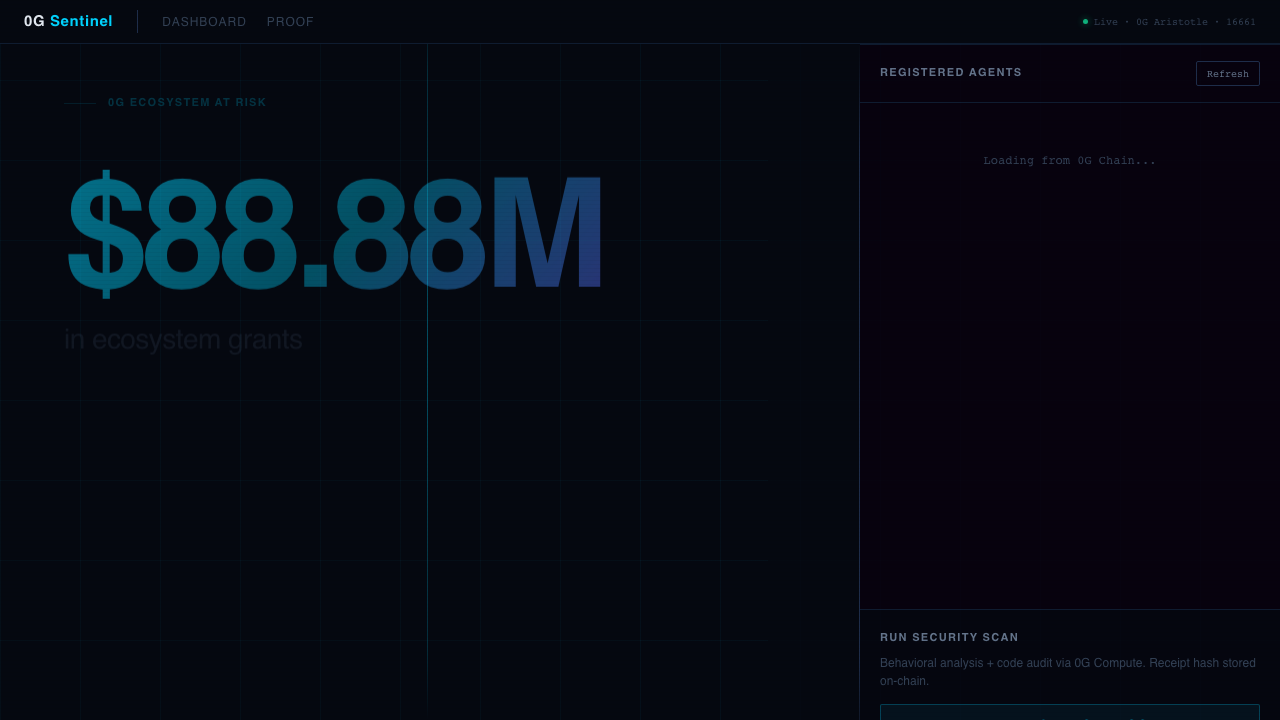
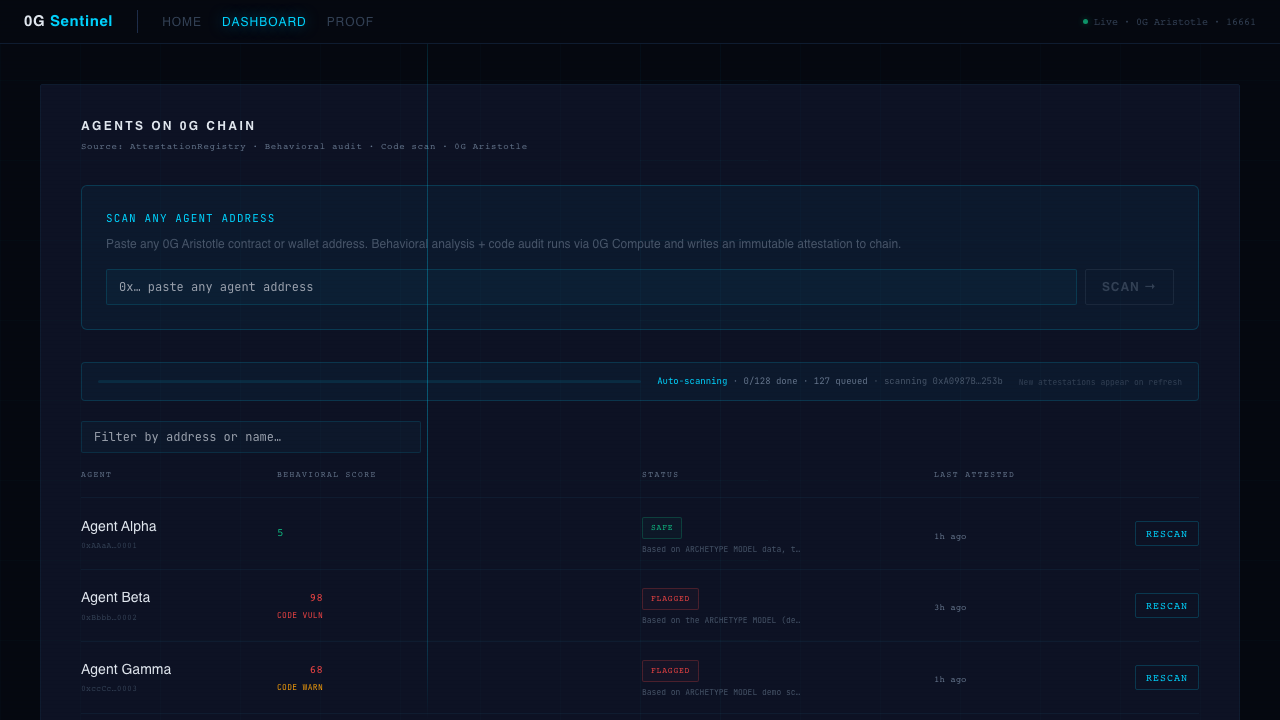
docs: update README and screenshots for chain discovery features
- Add Live Demo URL and live app link
- Document chain-native discovery, auto-scan queue, and agent database
- Add chain discovery, agent detail, and proof page screenshots
- Update API reference with /api/discover and /api/scan/queue
- Update project structure with new frontend components
- Remove stale registration/seeding steps from local setup

diff --git a/README.md b/README.md
@@ -1,6 +1,6 @@
 # 0G Sentinel: On-chain security attestations for AI agents
 
-Security infrastructure for the AI agent era. 0G Sentinel scans every registered agent using two independent AI inference pipelines, then writes an immutable 9-field attestation to 0G Chain. Any dApp, orchestrator, or smart contract can query attestations in a single on-chain call and gate execution on the result.
+Security infrastructure for the AI agent era. 0G Sentinel discovers every active contract on 0G Aristotle via chain logs, scans them through two independent AI inference pipelines, and writes immutable 9-field attestations to 0G Chain. Any dApp, orchestrator, or smart contract can query attestations in a single call and gate execution on the result — no agent registration required.
 
 [![TypeScript](https://img.shields.io/badge/TypeScript-5.x-3178C6?logo=typescript&logoColor=white)](https://www.typescriptlang.org/)
 [![Solidity](https://img.shields.io/badge/Solidity-0.8-363636?logo=solidity)](https://soliditylang.org/)
@@ -11,13 +11,21 @@ Security infrastructure for the AI agent era. 0G Sentinel scans every registered
 
 ![Dashboard](docs/images/dashboard.png)
 
+## Live Demo
+
+**[https://0g-sentinel.vercel.app](https://0g-sentinel.vercel.app)**
+
+Browse the live agent database, scan any 0G Aristotle address, and inspect on-chain attestation proofs.
+
 ---
 
 ## What Is 0G Sentinel?
 
 AI agents operate on-chain with real funds. There is currently no standard way to verify whether an agent is safe before granting it access to a protocol. 0G Sentinel fills that gap.
 
-It runs two parallel AI audits: a behavioral risk scan (transaction history, fund flows, access patterns) and a Solidity source code vulnerability scan. Both use 0G Compute's inference network, each producing a unique cryptographic receipt hash. The results are written as a single 9-field attestation struct to `AttestationRegistry` on 0G Chain — immutable, queryable by any contract.
+It discovers active contracts directly from chain logs (no manual registration), runs two parallel AI audits — behavioral risk (tx history, fund flows, access patterns) and Solidity vulnerability scan — and writes a 9-field attestation struct to `AttestationRegistry` on 0G Chain. Both AI calls go through 0G Compute's inference network, each returning a unique cryptographic receipt hash stored on-chain as proof of independent verification.
+
+A background queue auto-scans every newly discovered contract. Results appear progressively as each attestation lands on-chain. Any protocol can gate agent execution on the result with a single `isSafe()` call.
 
 AgentMesh audits developer code. 0G Sentinel audits live agents on mainnet and writes ERC-7857 on-chain identity attestations.
 
@@ -39,18 +47,25 @@ See [`submission/proof.md`](submission/proof.md) for live attestation data and o
 
 ## Screenshots
 
-| Agent Dashboard | Integration Proof |
-|----------------|------------------|
-| ![Dashboard](docs/images/dashboard.png) | ![Proof](docs/images/proof.png) |
+| Agent Database | Chain Discovery |
+|----------------|-----------------|
+| ![Dashboard](docs/images/dashboard.png) | ![Chain Discovery](docs/images/chain-discovery.png) |
+
+| Agent Detail | Integration Proof |
+|--------------|------------------|
+| ![Agent Detail](docs/images/agent-detail.png) | ![Proof](docs/images/proof.png) |
 
 ---
 
 ## Features
 
+- **Chain-native discovery**: Scans the last 10,000 blocks via `eth_getLogs` to find every active contract — no pre-registration, no allowlist, the chain is the registry
+- **Background auto-scan queue**: All discovered contracts are queued for scanning automatically; results appear progressively as each attestation lands on-chain
 - **Dual AI pipelines**: Two independent 0G Compute inference calls per scan, each with a unique `zg-res-key` receipt UUID stored on-chain as proof of independent verification
 - **Behavioral risk scoring**: 0-100 risk score from tx frequency, fund outflow patterns, and contract interaction breadth
 - **Smart contract vulnerability scan**: Reentrancy, broken access control, and unchecked-call detection via AI code analysis
 - **Immutable on-chain attestations**: 9-field struct written to `AttestationRegistry` — queryable by any dApp with a single call; includes full LLM reasoning string
+- **Live agent database**: Paginated, searchable table of all attested agents with inline AI reasoning and threat badges
 - **AgentGate composability**: Drop-in security gate for any protocol; `isSafe()` and `isSafeWithAge()` read `AttestationRegistry` directly, no intermediary
 - **Evidence archival**: Full scan evidence JSON content-addressed and hashed; `evidence_hash` stored immutably in attestation struct
 - **OpenClaw skill**: `openclaw-skill/0g-sentinel-scan.json` enables AI orchestrators to trigger scans as a native tool call
@@ -111,11 +126,12 @@ See [`submission/proof.md`](submission/proof.md) for live attestation data and o
                   attestation verdict
 ```
 
-1. **Register**: Add an agent address to `AgentRegistry`
-2. **Scan**: Sentinel runs two parallel AI pipelines via 0G Compute
-3. **Archive**: Evidence JSON uploaded to 0G Storage; root hash stored
-4. **Attest**: Scanner writes 9-field attestation to `AttestationRegistry` on 0G Chain
-5. **Gate**: `AgentGate` reads attestation; reverts if agent is flagged or unscanned
+1. **Discover**: `/api/discover` scans last 10k blocks via `eth_getLogs` — every contract that emitted events is a candidate
+2. **Queue**: All discovered addresses enqueue for background auto-scanning (serial, nonce-safe)
+3. **Scan**: Two parallel AI pipelines run via 0G Compute for each address
+4. **Archive**: Evidence JSON uploaded to 0G Storage; SHA256 root hash stored
+5. **Attest**: Scanner writes 9-field attestation to `AttestationRegistry` on 0G Chain
+6. **Gate**: `AgentGate` reads attestation; reverts if agent is flagged or unscanned
 
 Each pipeline call produces a unique `zg-res-key` receipt UUID from the 0G router, converted to a bytes32 hash. Both hashes stored on-chain prove two independent AI verifications ran.
 
@@ -140,14 +156,13 @@ npx hardhat run scripts/deploy/01_deploy_registry.ts --network zerogTestnet
 npx hardhat run scripts/deploy/02_deploy_attestation.ts --network zerogTestnet
 npx hardhat run scripts/deploy/03_deploy_gate.ts --network zerogTestnet
 
-# 5. Seed demo agents
-npx ts-node scripts/seed-demo.ts
-
-# 6. Run frontend
+# 5. Run frontend
 cd frontend && npm run dev
 ```
 
-Open [http://localhost:3000](http://localhost:3000) to view the dashboard.
+Open [http://localhost:3000/agents](http://localhost:3000/agents).
+
+The dashboard auto-discovers active contracts from chain logs on load. No seeding required — the chain is the registry. To scan an agent, paste any 0G Aristotle address into the hero scan panel and submit.
 
 ---
 
@@ -178,7 +193,9 @@ require(att.code_risk < 2, "Agent has vulnerabilities");
 | Method | Endpoint | Description |
 |--------|----------|-------------|
 | GET | `/api/health` | Service health, RPC endpoint, registry address |
-| GET | `/api/agents` | All registered agents with on-chain attestation data |
+| GET | `/api/agents` | All attested agents with on-chain attestation data |
+| GET | `/api/discover` | Discover active contracts from chain logs (last 10k blocks) |
+| GET | `/api/scan/queue` | Background auto-scan queue status (queued, inFlight, completed, failed) |
 | POST | `/api/scan/behavioral` | Trigger behavioral + full scan for an agent address |
 | POST | `/api/scan/code` | Trigger code vulnerability scan only |
 
@@ -200,10 +217,21 @@ require(att.code_risk < 2, "Agent has vulnerabilities");
 │   └── storage.ts                # 0G Storage evidence archival
 ├── frontend/
 │   ├── app/
-│   │   ├── agents/               # Agent dashboard + detail pages
+│   │   ├── agents/               # Agent database + detail pages
 │   │   ├── proof/                # Integration proof page
-│   │   └── api/                  # Scan + health API routes
-│   └── components/               # AgentRow, shared UI
+│   │   └── api/
+│   │       ├── agents/           # Attested agent list
+│   │       ├── discover/         # Chain-native contract discovery
+│   │       └── scan/
+│   │           ├── behavioral/   # Full scan trigger
+│   │           └── queue/        # Auto-scan queue status
+│   ├── components/
+│   │   ├── AgentsTable.tsx       # Paginated, searchable agent list
+│   │   ├── ChainDiscovery.tsx    # Live chain contract discovery panel
+│   │   ├── QueueBanner.tsx       # Auto-scan progress bar
+│   │   └── ScanInput.tsx         # Hero scan input
+│   └── scanner/
+│       └── queue.ts              # Background auto-scan queue singleton
 ├── openclaw-skill/
 │   └── 0g-sentinel-scan.json     # OpenClaw skill manifest
 ├── scripts/
